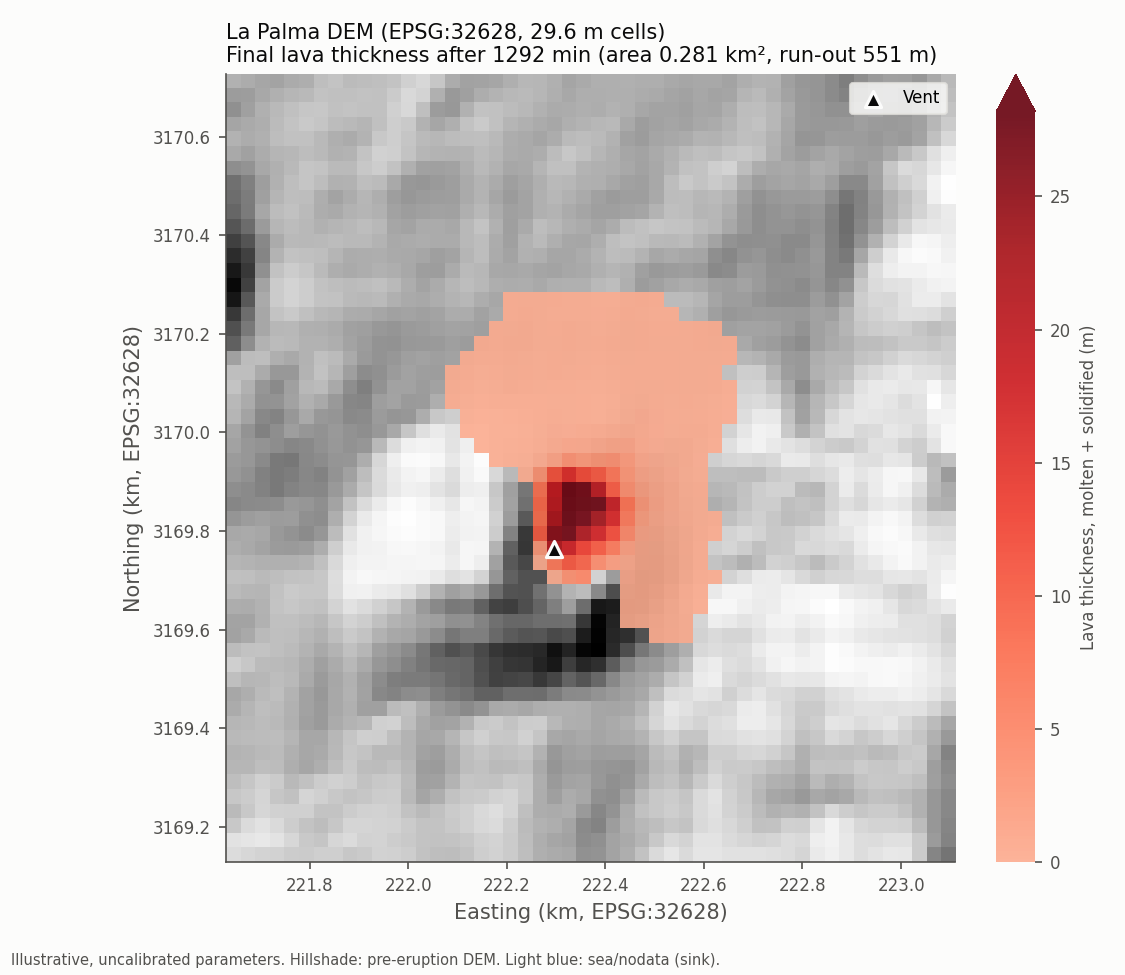
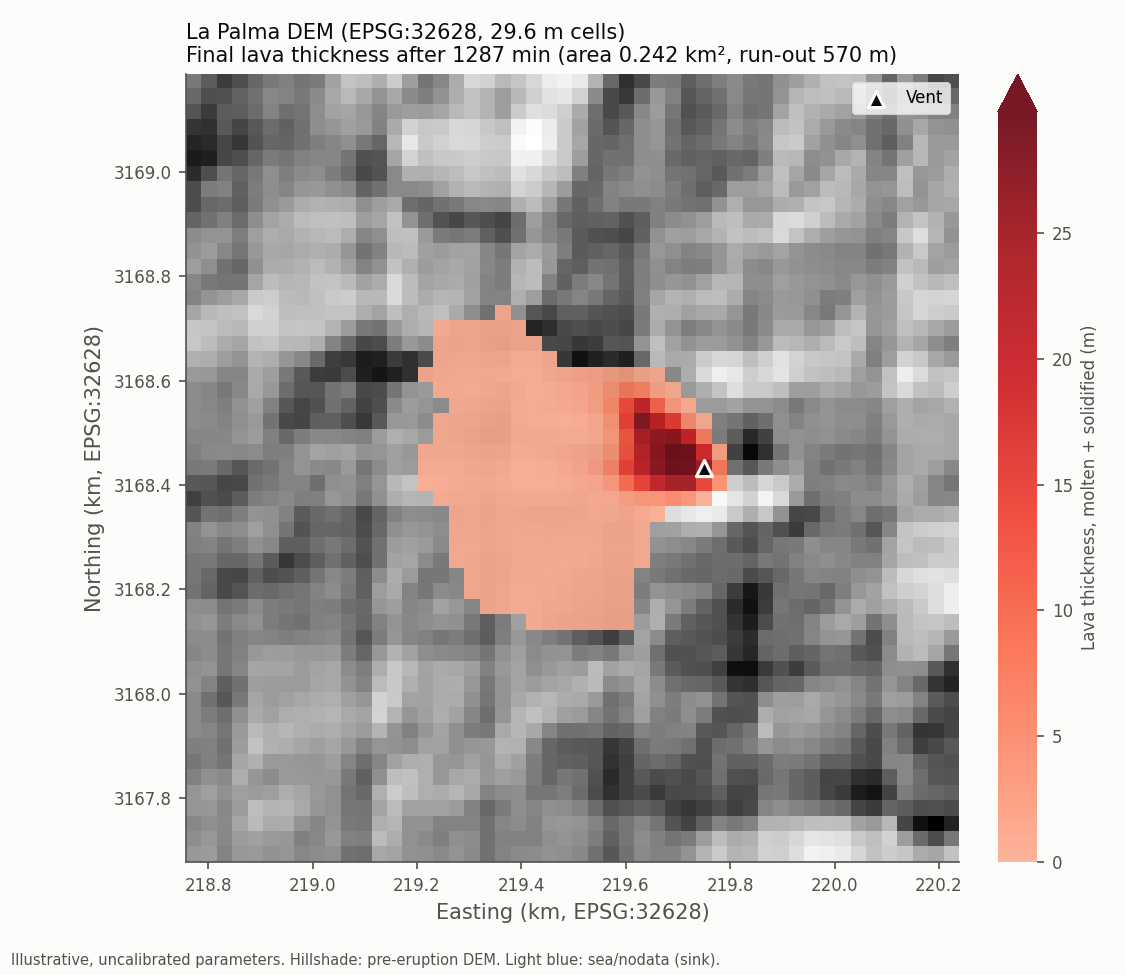
README: Tajogaite vent, DEM origin, illustrative scope
- Explain why the default vent moved from "emision_pto" to the Tajogaite
  cone layer and how to select the old one.
- Add an "Input data" section stating that the DEM is pre-eruption
  topography, with the properties of the distributed file and
  placeholders for its source, original resolution and date.
- State explicitly that the La Palma runs are illustrative scenarios,
  not a reconstruction of the 2021 eruption.
- Regenerate docs/figures/real_*.png with the Tajogaite vent and update
  the reported results (0.242 km2, 570 m straight-line run-out).
- Update the repository layout for notebooks/legacy/.

diff --git a/README.md b/README.md
@@ -8,11 +8,18 @@ DEM of La Palma.
 > and **have not been calibrated**, and its output **has not been validated** against
 > observed lava flows. See [Limitations](#limitations).
 
+> **Illustrative scenario, not a reconstruction.** The La Palma runs place a vent at the
+> Tajogaite cone on pre-eruption topography and erupt a few hundred thousand m³ over
+> about a day. They do **not** reproduce the 2021 eruption: its ~85-day duration, its
+> changing effusion rate, its multiple vents, or the flow field that reached the sea. The
+> simulated footprint should not be read as a hindcast of the 2021 lava flows.
+
 ![Final lava thickness on the La Palma DEM](docs/figures/real_final_thickness.png)
 
-*Example run on the La Palma DEM (command below): molten + solidified lava thickness
-over a hillshade of the pre-eruption DEM, after three 6-hour pulses at 600 m³/min.
-Uncalibrated parameters.*
+*Illustrative run on the La Palma DEM, with the vent at the Tajogaite cone (command
+below): molten + solidified lava thickness over a hillshade of the pre-eruption DEM,
+after three 6-hour pulses at 600 m³/min. Uncalibrated parameters. Footprint
+0.242 km², straight-line run-out 570 m.*
 
 ## What the model does
 
@@ -49,8 +56,20 @@ tracked every step. The tests require it to close with relative error < 1e-6. In
 practice the error is ~1e-16 (float64 round-off).
 
 Only the cells near the lava are processed: the bounding box of cells with lava, plus
-a one-cell margin. The example run on the 1684 × 1076 La Palma grid (1292 simulated
-minutes) takes about 22 s, including reprojection, figures and GIF.
+a one-cell margin. The example run on the 1684 × 1076 La Palma grid (1287 simulated
+minutes) takes about 20 s, including reprojection, figures and GIF.
+
+### Input data
+
+**DEM (`data/DEM_LaPalma.tif`).** This is **pre-eruption topography**: it shows the
+terrain before the 2021 lava flows were emplaced, and the model never updates it with
+the real 2021 deposits.
+
+- Source: **[TO BE COMPLETED: source / producer]**
+- Original resolution: **[TO BE COMPLETED]**
+- Acquisition / reference date: **[TO BE COMPLETED]**
+- File as distributed here: GeoTIFF, `int16` elevations in metres, EPSG:3857, pixels
+  of 30.92 × 35.19 m in map units, nodata = −32768, sea at 0 m.
 
 ### Georeferencing
 
@@ -60,21 +79,24 @@ minutes) takes about 22 s, including reprojection, figures and GIF.
   to **UTM zone 28N (EPSG:32628)**. The cell size (29.6 m with GDAL's default
   resolution) is read from the transform. `--cell-size` overrides it, with a
   warning. `--resolution` sets the target resolution.
-- The vent is read from layer `emision_pto` of `data/Emission_Pt.gpkg` and
-  reprojected to the DEM's CRS. The script stops with an error if the vent falls
-  outside the DEM, on nodata, or on the sea.
-- **Note on the vent location.** The `emision_pto` point (28.6253 N, 17.8403 W;
-  1266 m in the reprojected DEM) is 2.9 km ENE of, and 316 m higher than, the point in
-  the other layer of the same file, `2836460n_1751580w` (28°36'46"N 17°51'58"W). Check
-  which point represents the 2021 vents before drawing conclusions from the
-  simulated path. Use `--emission-layer` to switch.
+- The vent is read from a layer of `data/Emission_Pt.gpkg` and reprojected to the
+  DEM's CRS. The script stops with an error if the vent falls outside the DEM, on
+  nodata, or on the sea.
+- **Default vent: the Tajogaite cone.** The default layer is `2836460n_1751580w`
+  (28°36'46"N 17°51'58"W), the Tajogaite cone of the 2021 eruption: pixel
+  (1036, 475) of the reprojected DEM, at 950 m.
+- **Why the default changed.** Earlier versions used layer `emision_pto` (28.6253 N,
+  17.8403 W). That point lies 2.9 km ENE of the Tajogaite cone and 316 m higher
+  (1266 m in the reprojected DEM), on terrain that drains to the north, so it does not
+  represent the 2021 vent. It is still available with
+  `--emission-layer emision_pto`.
 
 ## Quick start
 
 ```bash
 python -m venv .venv && source .venv/bin/activate
 pip install -r requirements.txt
-python -m pytest            # 16 tests
+python -m pytest            # 19 tests
 ```
 
 Synthetic Gaussian hill (100 × 100 cells, 10 m, vent at the summit, default
@@ -84,9 +106,10 @@ parameters):
 python src/lava_flow_simulation_palma.py --mode gaussian
 ```
 
-La Palma DEM. This is the command used for the figures in `docs/figures/`: three
-6-hour pulses at 600 m³/min (10 m³/s), each followed by up to 4 h without
-emission:
+La Palma DEM, with the vent at the Tajogaite cone. This is the command used for the
+figures in `docs/figures/`: three 6-hour pulses at 600 m³/min (10 m³/s), each
+followed by up to 4 h without emission. This illustrative scenario totals
+648,000 m³, a tiny fraction of the volume erupted in 2021:
 
 ```bash
 python src/lava_flow_simulation_palma.py --mode real --rate 600 --pulses 3 \
@@ -146,12 +169,14 @@ vent. That choice is not an estimate of the real cooling rate.
 - **Grid and time-step dependence.** The CA rule is not derived from a discretised
   flow equation. The front advances at most one cell per minute, and results depend
   on cell size and `flow_coef`. No convergence study has been done.
-- **Topography.** The DEM is pre-eruption and resampled twice: its original
-  ~31 × 35 m Web Mercator grid was bilinearly reprojected to ~30 m UTM cells. Its
-  source and acquisition date should be documented. Treating sea and nodata cells as
+- **Topography.** The DEM is pre-eruption topography (see
+  [Input data](#input-data)), resampled at least once: its ~31 × 35 m Web Mercator
+  grid was bilinearly reprojected to ~30 m UTM cells. Treating sea and nodata cells as
   sinks ignores lava deltas and offshore emplacement.
-- **Vent.** A single point vent. The 2021 eruption had several vents, and its
-  effusion rate changed over the ~85 days of activity.
+- **Vent and scenario.** A single point vent at the Tajogaite cone and a constant
+  rate per pulse, over about a day. The 2021 eruption had several vents, and its
+  effusion rate changed over the ~85 days of activity. The runs are illustrative
+  scenarios, not a reconstruction of the eruption.
 
 ## Repository layout
 
@@ -159,11 +184,12 @@ vent. That choice is not an estimate of the real cooling rate.
 - `tests/`: pytest suite covering georeferencing, propagation, mass conservation,
   symmetry, heat advection, mobility and a CLI smoke test.
 - `data/`: input DEMs (`DEM_LaPalma.tif`, plus `DEM_gaussian.tif`, which the
-  script doesn't use) and the emission point (`Emission_Pt.gpkg`). The Landsat 8 image
-  and `output.png` belong to the legacy notebook.
+  script doesn't use) and the emission points (`Emission_Pt.gpkg`, two layers). The
+  Landsat 8 image and `output.png` belong to the legacy notebook.
 - `docs/figures/`: example figures generated with the commands above.
-- `notebooks/lava_flow_simulation_palma.ipynb`: the **original exploratory
-  prototype**. It is self-contained (it also uses `scipy`), predates the fixes
-  described here, and does not reflect the current model. Its side-by-side
-  comparison with a Landsat image is qualitative only.
+- `notebooks/legacy/lava_flow_simulation_palma.ipynb`: the **original exploratory
+  prototype**, kept for reference. It is self-contained (it also uses `scipy`),
+  predates the fixes described here, and does not reflect the current model; its
+  first cell says so. Its side-by-side comparison with a Landsat image is
+  qualitative only.
 - `output/`: generated results (ignored by git).
